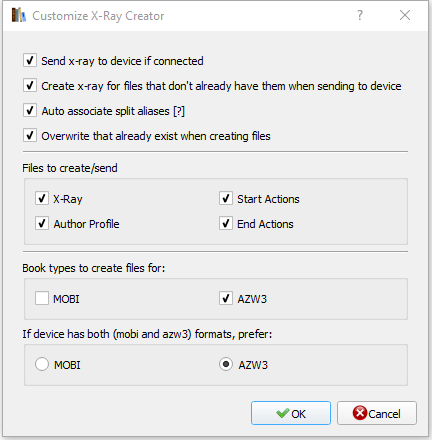
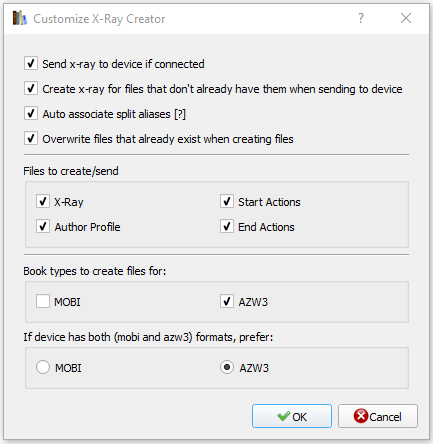
fixed typo in the preferences; updated screenshot, readme, and zip

diff --git a/config.py b/config.py
@@ -50,7 +50,7 @@ class ConfigWidget(QWidget):
         self.expand_aliases.setToolTip(expand_alias_explanation)
         self.l.addWidget(self.expand_aliases)
 
-        self.overwrite_when_creating = QCheckBox('Overwrite that already exist when creating files')
+        self.overwrite_when_creating = QCheckBox('Overwrite files that already exist when creating files')
         self.overwrite_when_creating.setChecked(prefs['overwrite_when_creating'])
         self.l.addWidget(self.overwrite_when_creating)
 

diff --git a/README.md b/README.md
@@ -1,6 +1,8 @@
 # X-Ray Calibre Plugin
 Downloads:
 ----------------------------------------------------------------------------------------------------------------------------------
+[3.0.0](https://github.com/szarroug3/X-Ray_Calibre_Plugin/blob/master/Versions/xray_creator_calibre_plugin_3_0_0.zip?raw=true)
+
 [2.2.1](https://github.com/szarroug3/X-Ray_Calibre_Plugin/blob/master/Versions/xray_creator_calibre_plugin_2_2_1.zip?raw=true)
 
 [2.2.0](https://github.com/szarroug3/X-Ray_Calibre_Plugin/blob/master/Versions/xray_creator_calibre_plugin_2_2_0.zip?raw=true)
@@ -60,8 +62,19 @@ Preferences:
 			"Valette" and "Renoux" as aliases. You may not want this in cases such as "Timothy Cratchit" who has a
 			Goodreads alias of "Tiny Tim". Having this feature on would add "Tiny", and "Tim" as
 			aliases which is not valid.
-	3. Book types to create x-ray files for
+	4. Overwrite files that already exist when creating files
+		- When using the Create/Update Files function, this will decide whether or not to delete local files that already exist
+	5. Files to create/send
+		- This will let you choose what type of files to create and/or send
+		- You must choose at least one.
+	6. Book types to create x-ray files for
 		- Selection of formats to consider when creating and sending x-ray files.
+		- You must choose at least one.
+	7. If device has both (mobi and azw3) formats, prefer
+		- This will choose which format to send x-ray files for if your device has both file formats
+		- This matters because there are offsets in the x-ray file that determine whether something that is highlighted is
+			part of the x-ray
+		- If you are sure you only have one format of the book type on the device, this does not matter.
 
 Testing:
 ----------------------------------------------------------------------------------------------------------------------------------
